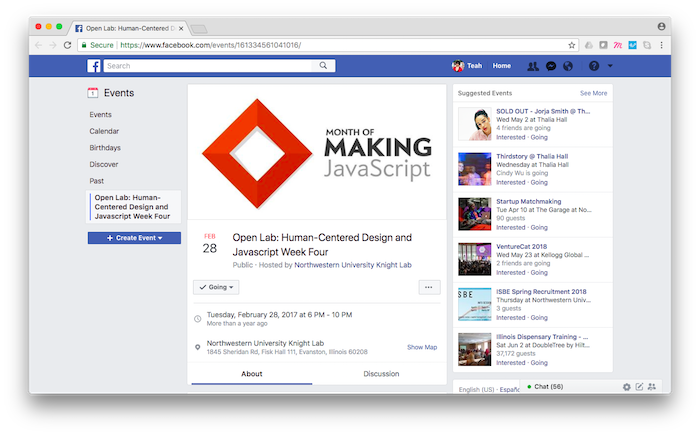
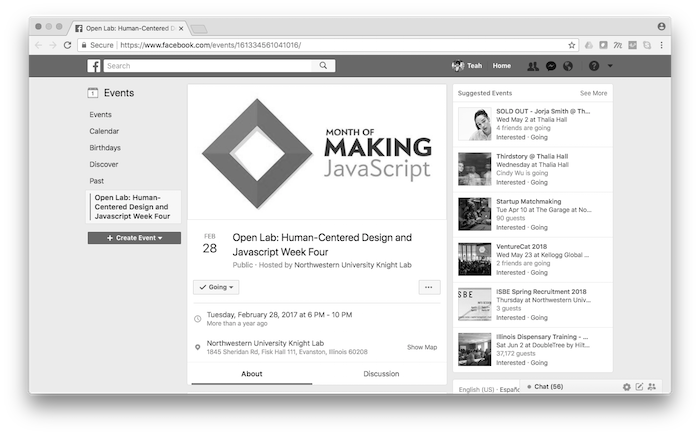
Works item hover fix / b/w imgs in about

diff --git a/stylesheets/main.css b/stylesheets/main.css
@@ -516,11 +516,34 @@ section.mastwrap{
 
 .works-item:hover {
       opacity:1;
-      -webkit-transition: all .1s ease-in-out;
+/*      -webkit-transition: all .1s ease-in-out;
          -moz-transition: all .1s ease-in-out;
           -ms-transition: all .1s ease-in-out;
            -o-transition: all .1s ease-in-out;
-              transition: all .1s ease-in-out;
+              transition: all .1s ease-in-out;*/
+}
+
+.ContentWrapperB .ContentB {
+  position: absolute;
+  /*background: #ffffff;*/
+  opacity: 0;
+  visibility: hidden;
+  width: 100%;
+  height: 100%;
+  display: block;
+  top: -100%;
+  left: 0;
+/*  -webkit-transition: all 0.1s ease-in-out;
+  -moz-transition: all 0.1s ease-in-out;
+  -ms-transition: all 0.1s ease-in-out;
+  -o-transition: all 0.1s ease-in-out;
+  transition: all 0.1s ease-in-out;*/
+}
+
+.ContentWrapperB:hover .ContentB {
+  opacity: 1;
+  visibility: visible;
+  top: 0;
 }
 
  .works-item a{
@@ -533,20 +556,20 @@ section.mastwrap{
             z-index: 100;
             text-align: center;
             text-decoration: none !important;
-            -webkit-transition: all .1s ease-in-out;
+/*            -webkit-transition: all .1s ease-in-out;
                -moz-transition: all .1s ease-in-out;
                 -ms-transition: all .1s ease-in-out;
                  -o-transition: all .1s ease-in-out;
-                    transition: all .1s ease-in-out;
+                    transition: all .1s ease-in-out;*/
         }
         .works-item a:hover{
             text-decoration: none !important;
             opacity:1;
-            -webkit-transition: all .1s ease-in-out;
+/*            -webkit-transition: all .1s ease-in-out;
                -moz-transition: all .1s ease-in-out;
                 -ms-transition: all .1s ease-in-out;
                  -o-transition: all .1s ease-in-out;
-                    transition: all .1s ease-in-out;
+                    transition: all .1s ease-in-out;*/
         }
         .info a:hover{
             cursor: url("../images/view.png") 40 40, crosshair;

diff --git a/about.html b/about.html
@@ -99,7 +99,7 @@
           <img hidden id="bonappetit" class="leanright" src="images/about/bonappetit.png"/>
           <img hidden id="britishaccent" class="leanright" src="images/about/britishaccent.png"/>
           <img hidden id="commencement" class="leanright" src="images/about/commencement.png"/>
-          <img hidden id="design" class="leanright" src="images/about/design.jpg"/>
+          <img hidden id="design" class="leanright" src="images/about/design.png"/>
           <img hidden id="designsfordignity" class="leanright" src="images/about/designsfordignity.png"/>
           <img hidden id="dfa" class="leanright" src="images/about/dfa.jpg"/>
           <img hidden id="dialup" class="leanright" src="images/about/dialup.png"/>
@@ -141,7 +141,7 @@
                         <article class="col-md-5">
                           <h3 class="text-justify add-bottom-quarter">In other words, she's trying to figure out why people make the choices they do, and how to make their options better.</h3>
 
-                          <h3 class="text-justify add-bottom-quarter">Teah is intrigued by human behavior and how people navigate space. In her spare time, she thinks about clothes, buys ice cream, eats ice cream, wonders if she should post more on Instagram...and works on <a class="dialupblue" href="http://dialupstuff.com/" target="_blank">DIAL UP</a>.</h3>
+                          <h3 class="text-justify add-bottom-quarter">Teah is intrigued by human behavior and how people navigate space. In her spare time, she thinks about clothes, buys ice cream, eats ice cream, wonders if she should post more on Instagram...and works on <a href="http://dialupstuff.com/" target="_blank">DIAL UP</a>.</h3>
 
                           <h3 class="text-justify add-bottom-quarter">Speaking of Instagram, you can get in touch with Teah in a number of ways:</h3>
 

diff --git a/stylesheets/sinister.css b/stylesheets/sinister.css
@@ -309,11 +309,11 @@ Content Transform
 
 /* USED IN WORKS ITEMS ON WORK PAGE 
 ____________________________________________ */
-.ContentWrapperB .ContentB {
+/*.ContentWrapperB .ContentB {
 	position: absolute;
-	/*background: #ffffff;*/
-	opacity: 0;visibility: 
-	hidden;width: 100%;
+	opacity: 0;
+	visibility: hidden;
+	width: 100%;
 	height: 100%;
 	display: block;
 	top: -100%;
@@ -323,13 +323,13 @@ ____________________________________________ */
 	-ms-transition: all 0.3s ease 0s;
 	-o-transition: all 0.3s ease 0s;
 	transition: all 0.3s ease 0s;
-}
+}*/
 
-.ContentWrapperB:hover .ContentB {
+/*.ContentWrapperB:hover .ContentB {
 	opacity: 1;
 	visibility: visible;
 	top: 0;
-}
+}*/
 
 
 

diff --git a/less/color.css b/less/color.css
@@ -94,7 +94,7 @@ a {
   color: #FF0000;
 }
 a:hover {
-  color: #ffdc00;
+  color: black;
 }
 header a {
   color: #000000;
@@ -160,6 +160,7 @@ header.masthead {
 }
 .works-item:hover {
   background-color: #FF0000;
+
 }
 .works-item a {
   background-color: #FF0000;

diff --git a/less/color.less b/less/color.less
@@ -125,7 +125,7 @@ a{
 	color: @color;
 }
 a:hover{
-	color: @newyellow;
+	color: @black;
 }
 
 header a {
@@ -197,6 +197,7 @@ header.masthead{
 }
 .works-item:hover {
 	background-color: @color;
+
 }
 .works-item a{
 	background-color: @color;
